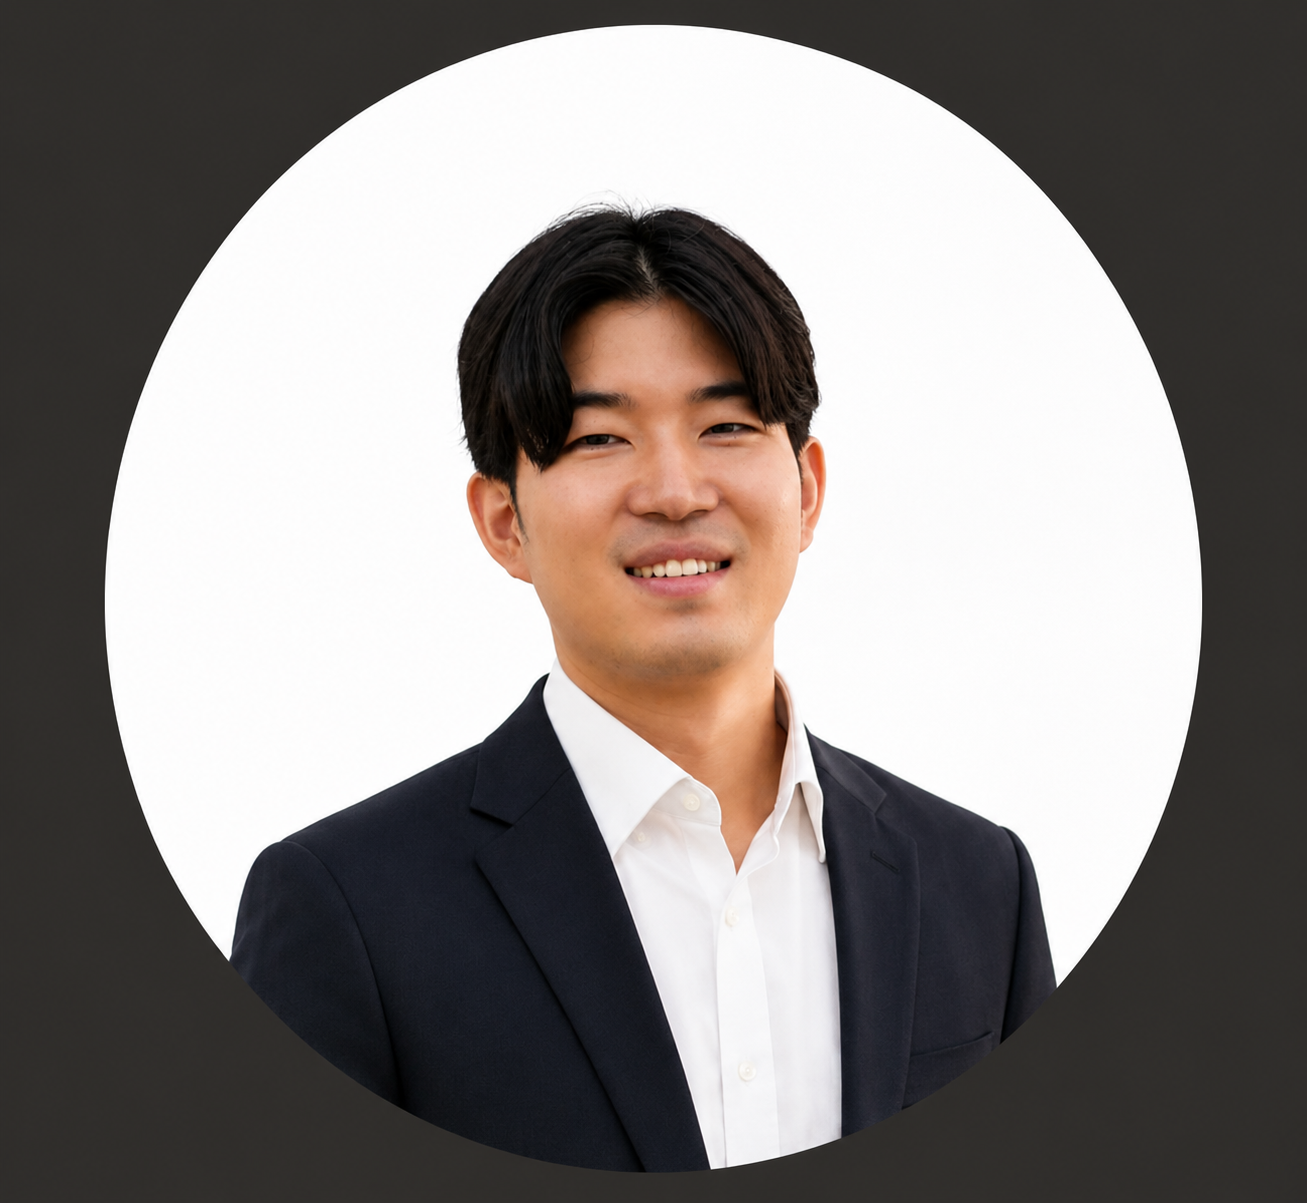
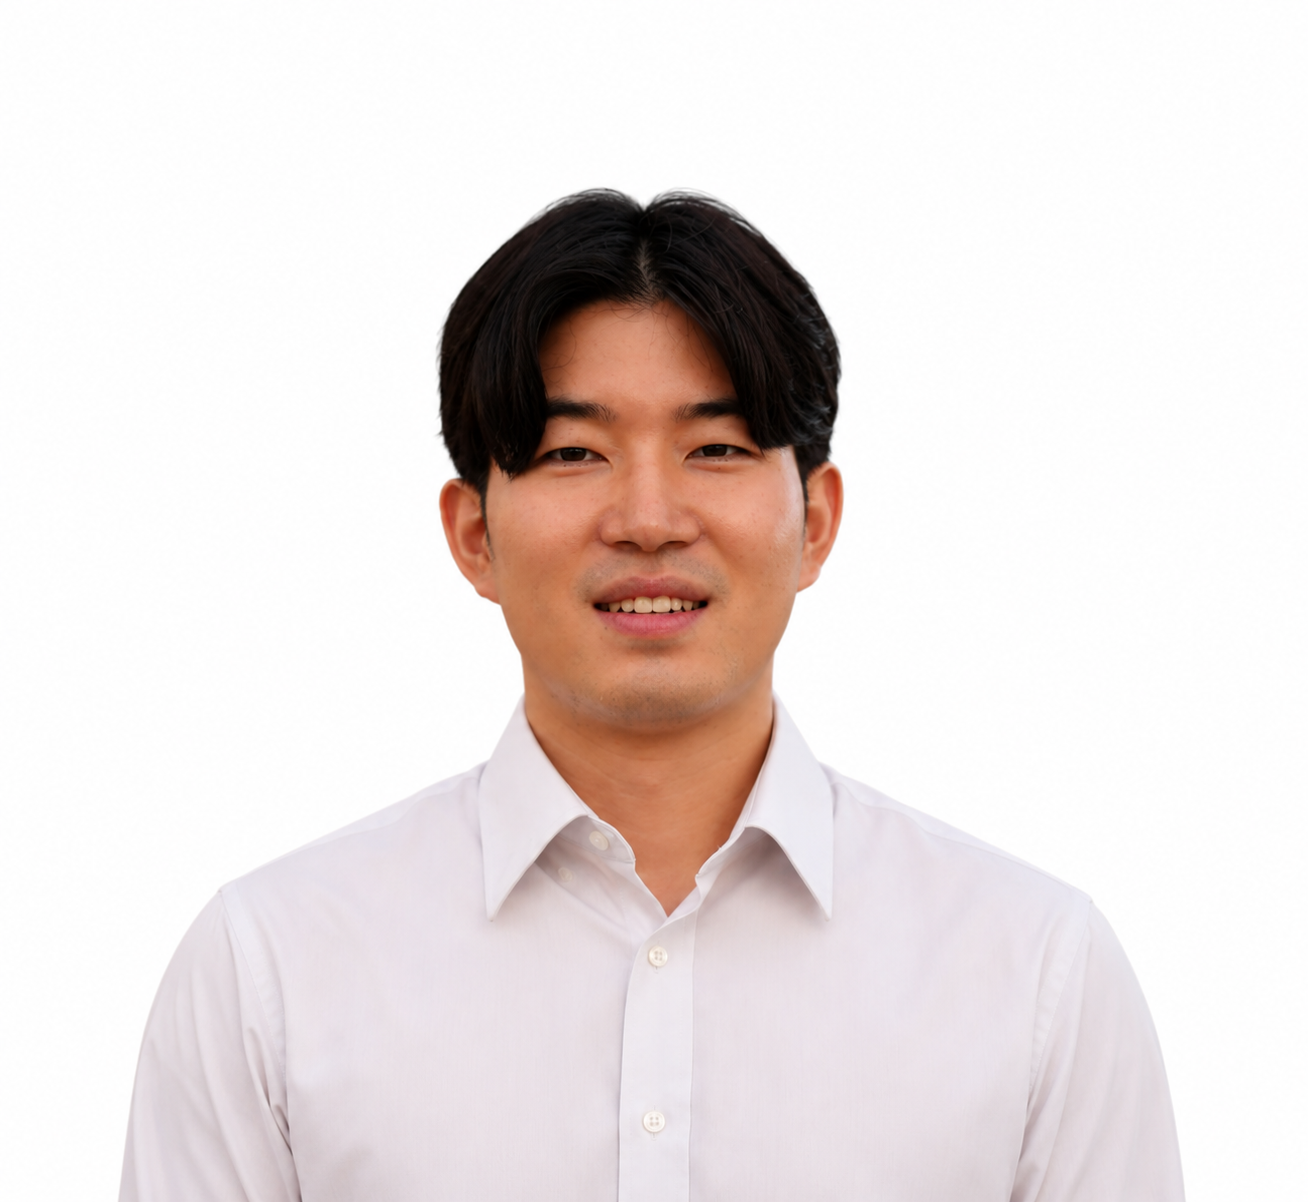
Replace headshot with white-background photo; enlarge to 185px
headshot_3.png: white background, natural pose — no dark ring issue
Photo: 155px -> 185px circle; object-position: center 18% for face framing

diff --git a/assets/css/daehyun.css b/assets/css/daehyun.css
@@ -82,21 +82,21 @@ body {
 }
 
 .dc-bio-photo {
-  width: 155px;
-  height: 155px;
+  width: 185px;
+  height: 185px;
   border-radius: 50%;
   object-fit: cover;
-  object-position: center top;
+  object-position: center 18%;
   flex-shrink: 0;
   background-color: #fff;
-  box-shadow: 0 2px 8px rgba(0,0,0,0.10);
+  box-shadow: 0 1px 6px rgba(0,0,0,0.08);
 }
 
 .dc-bio-text { flex: 1; min-width: 0; }
 
 @media (max-width: 600px) {
   .dc-bio-wrap { flex-direction: column; align-items: center; }
-  .dc-bio-photo { width: 120px; height: 120px; }
+  .dc-bio-photo { width: 140px; height: 140px; }
 }
 
 .dc-name {
